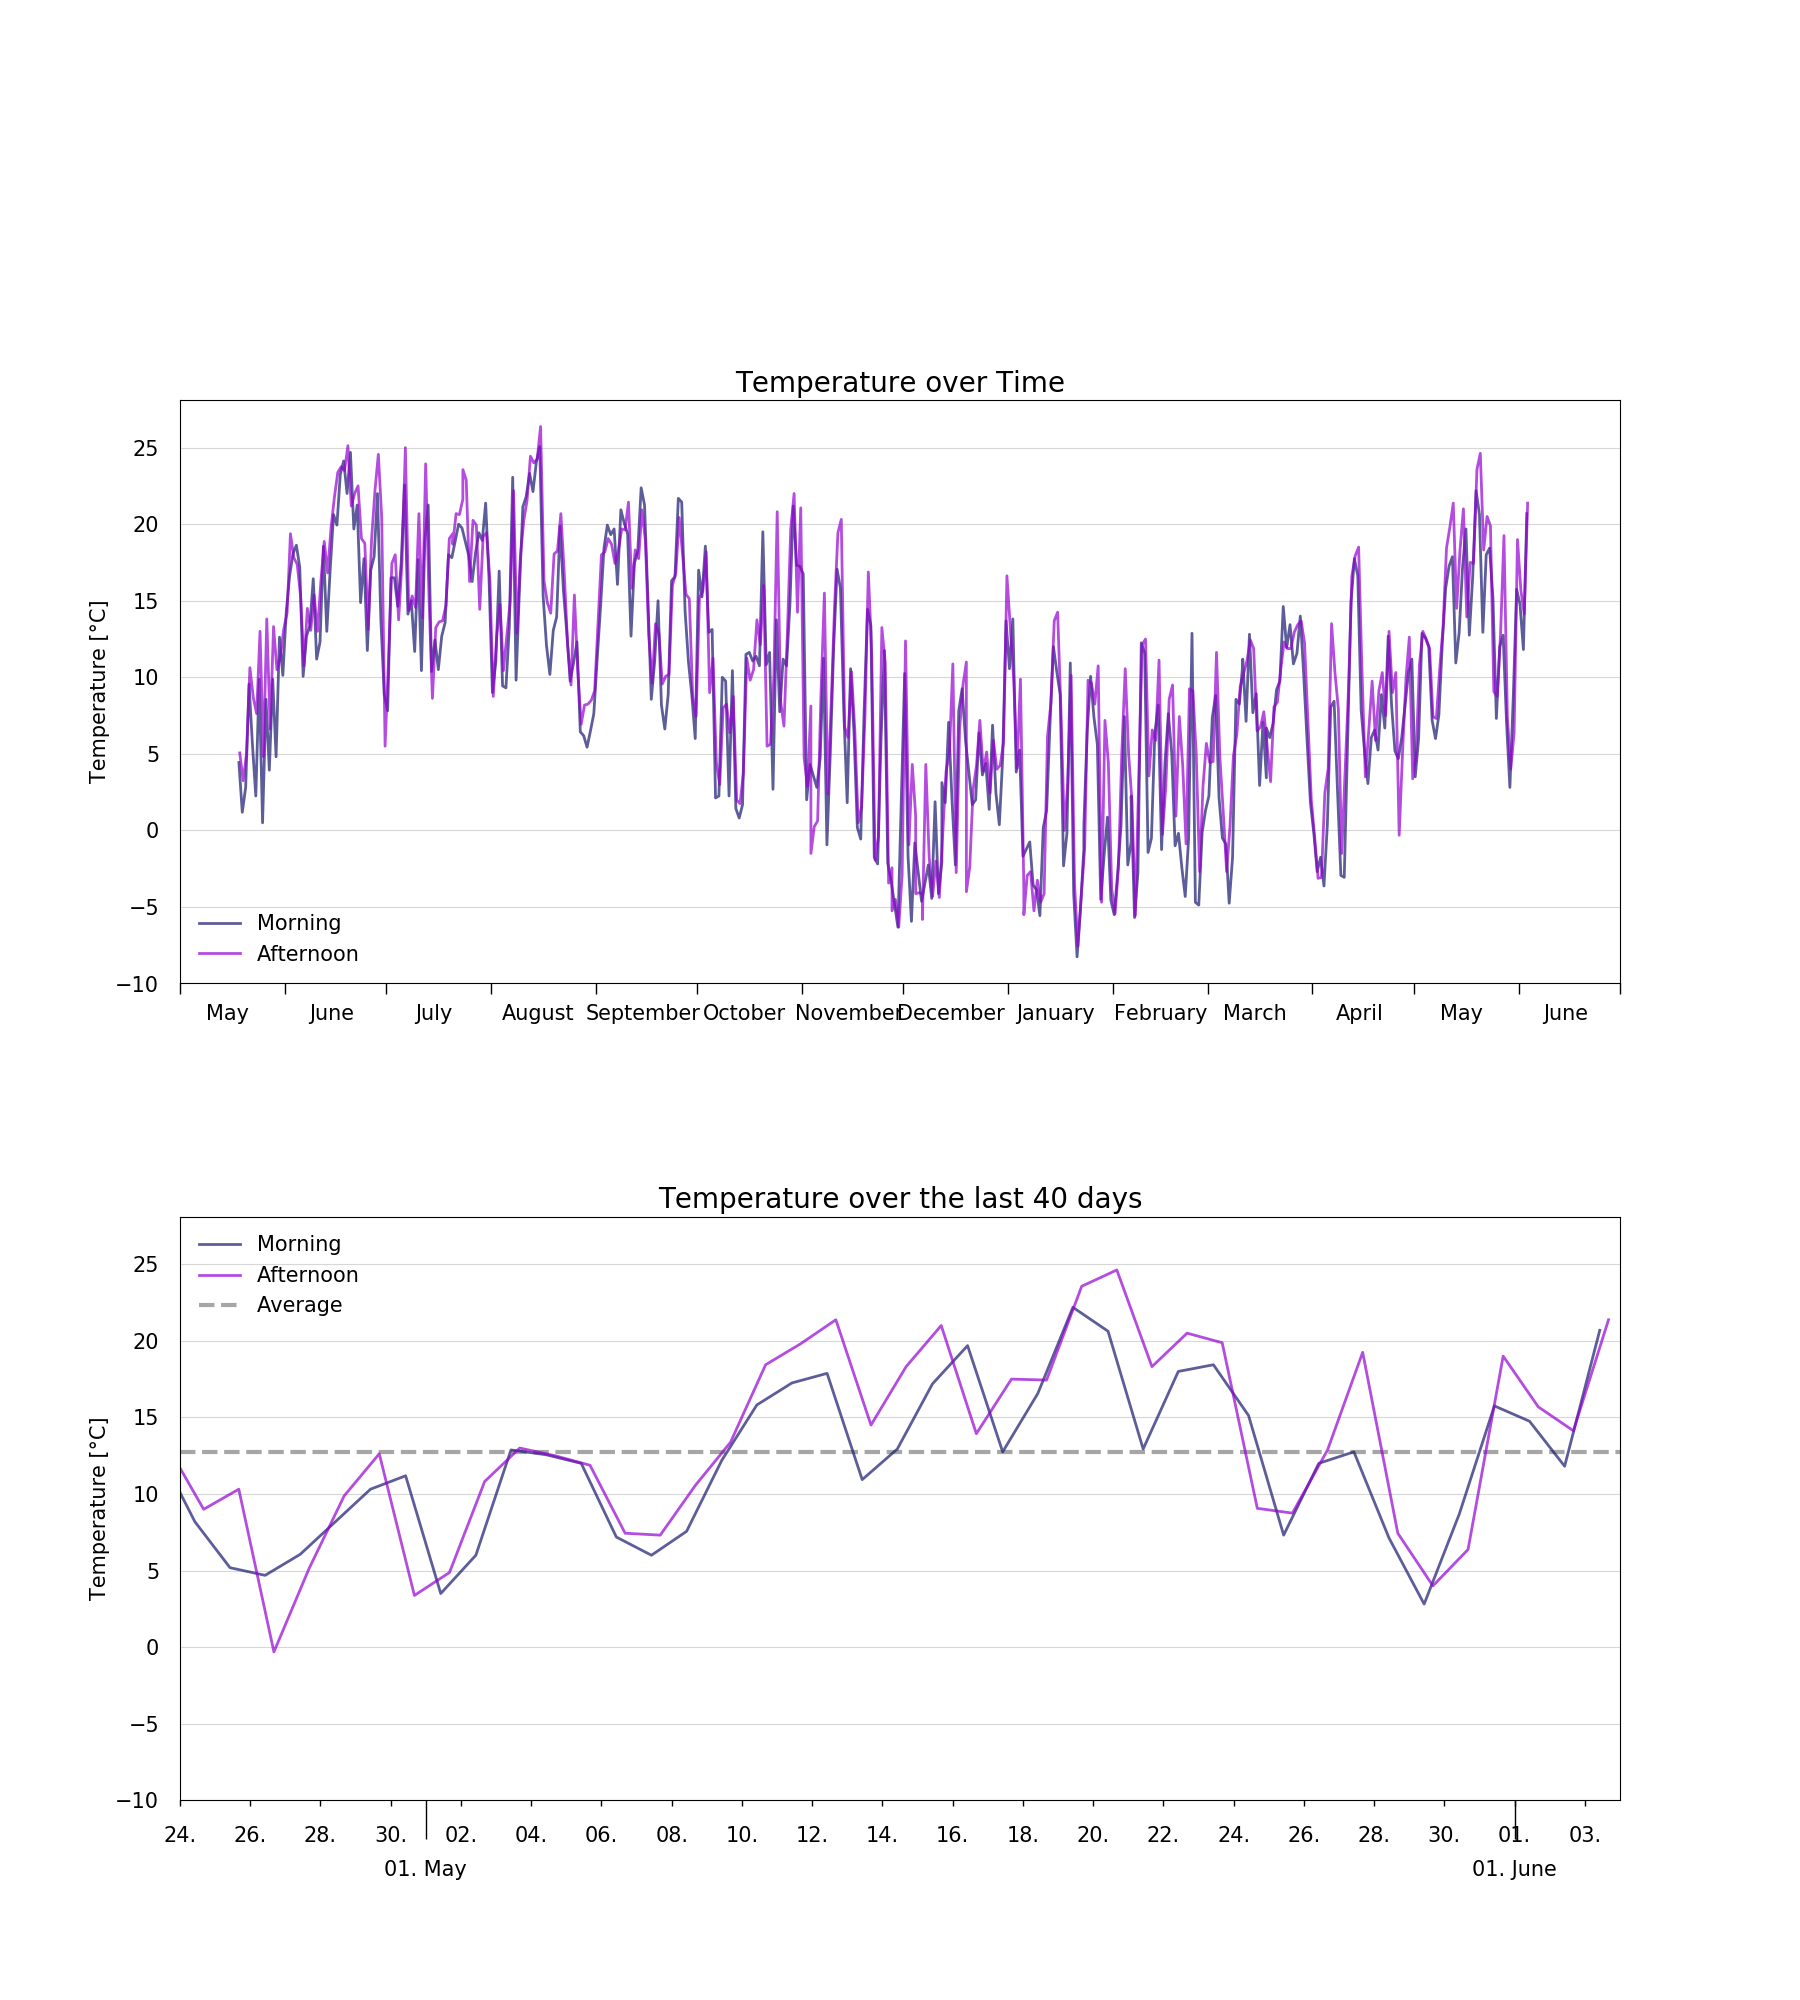
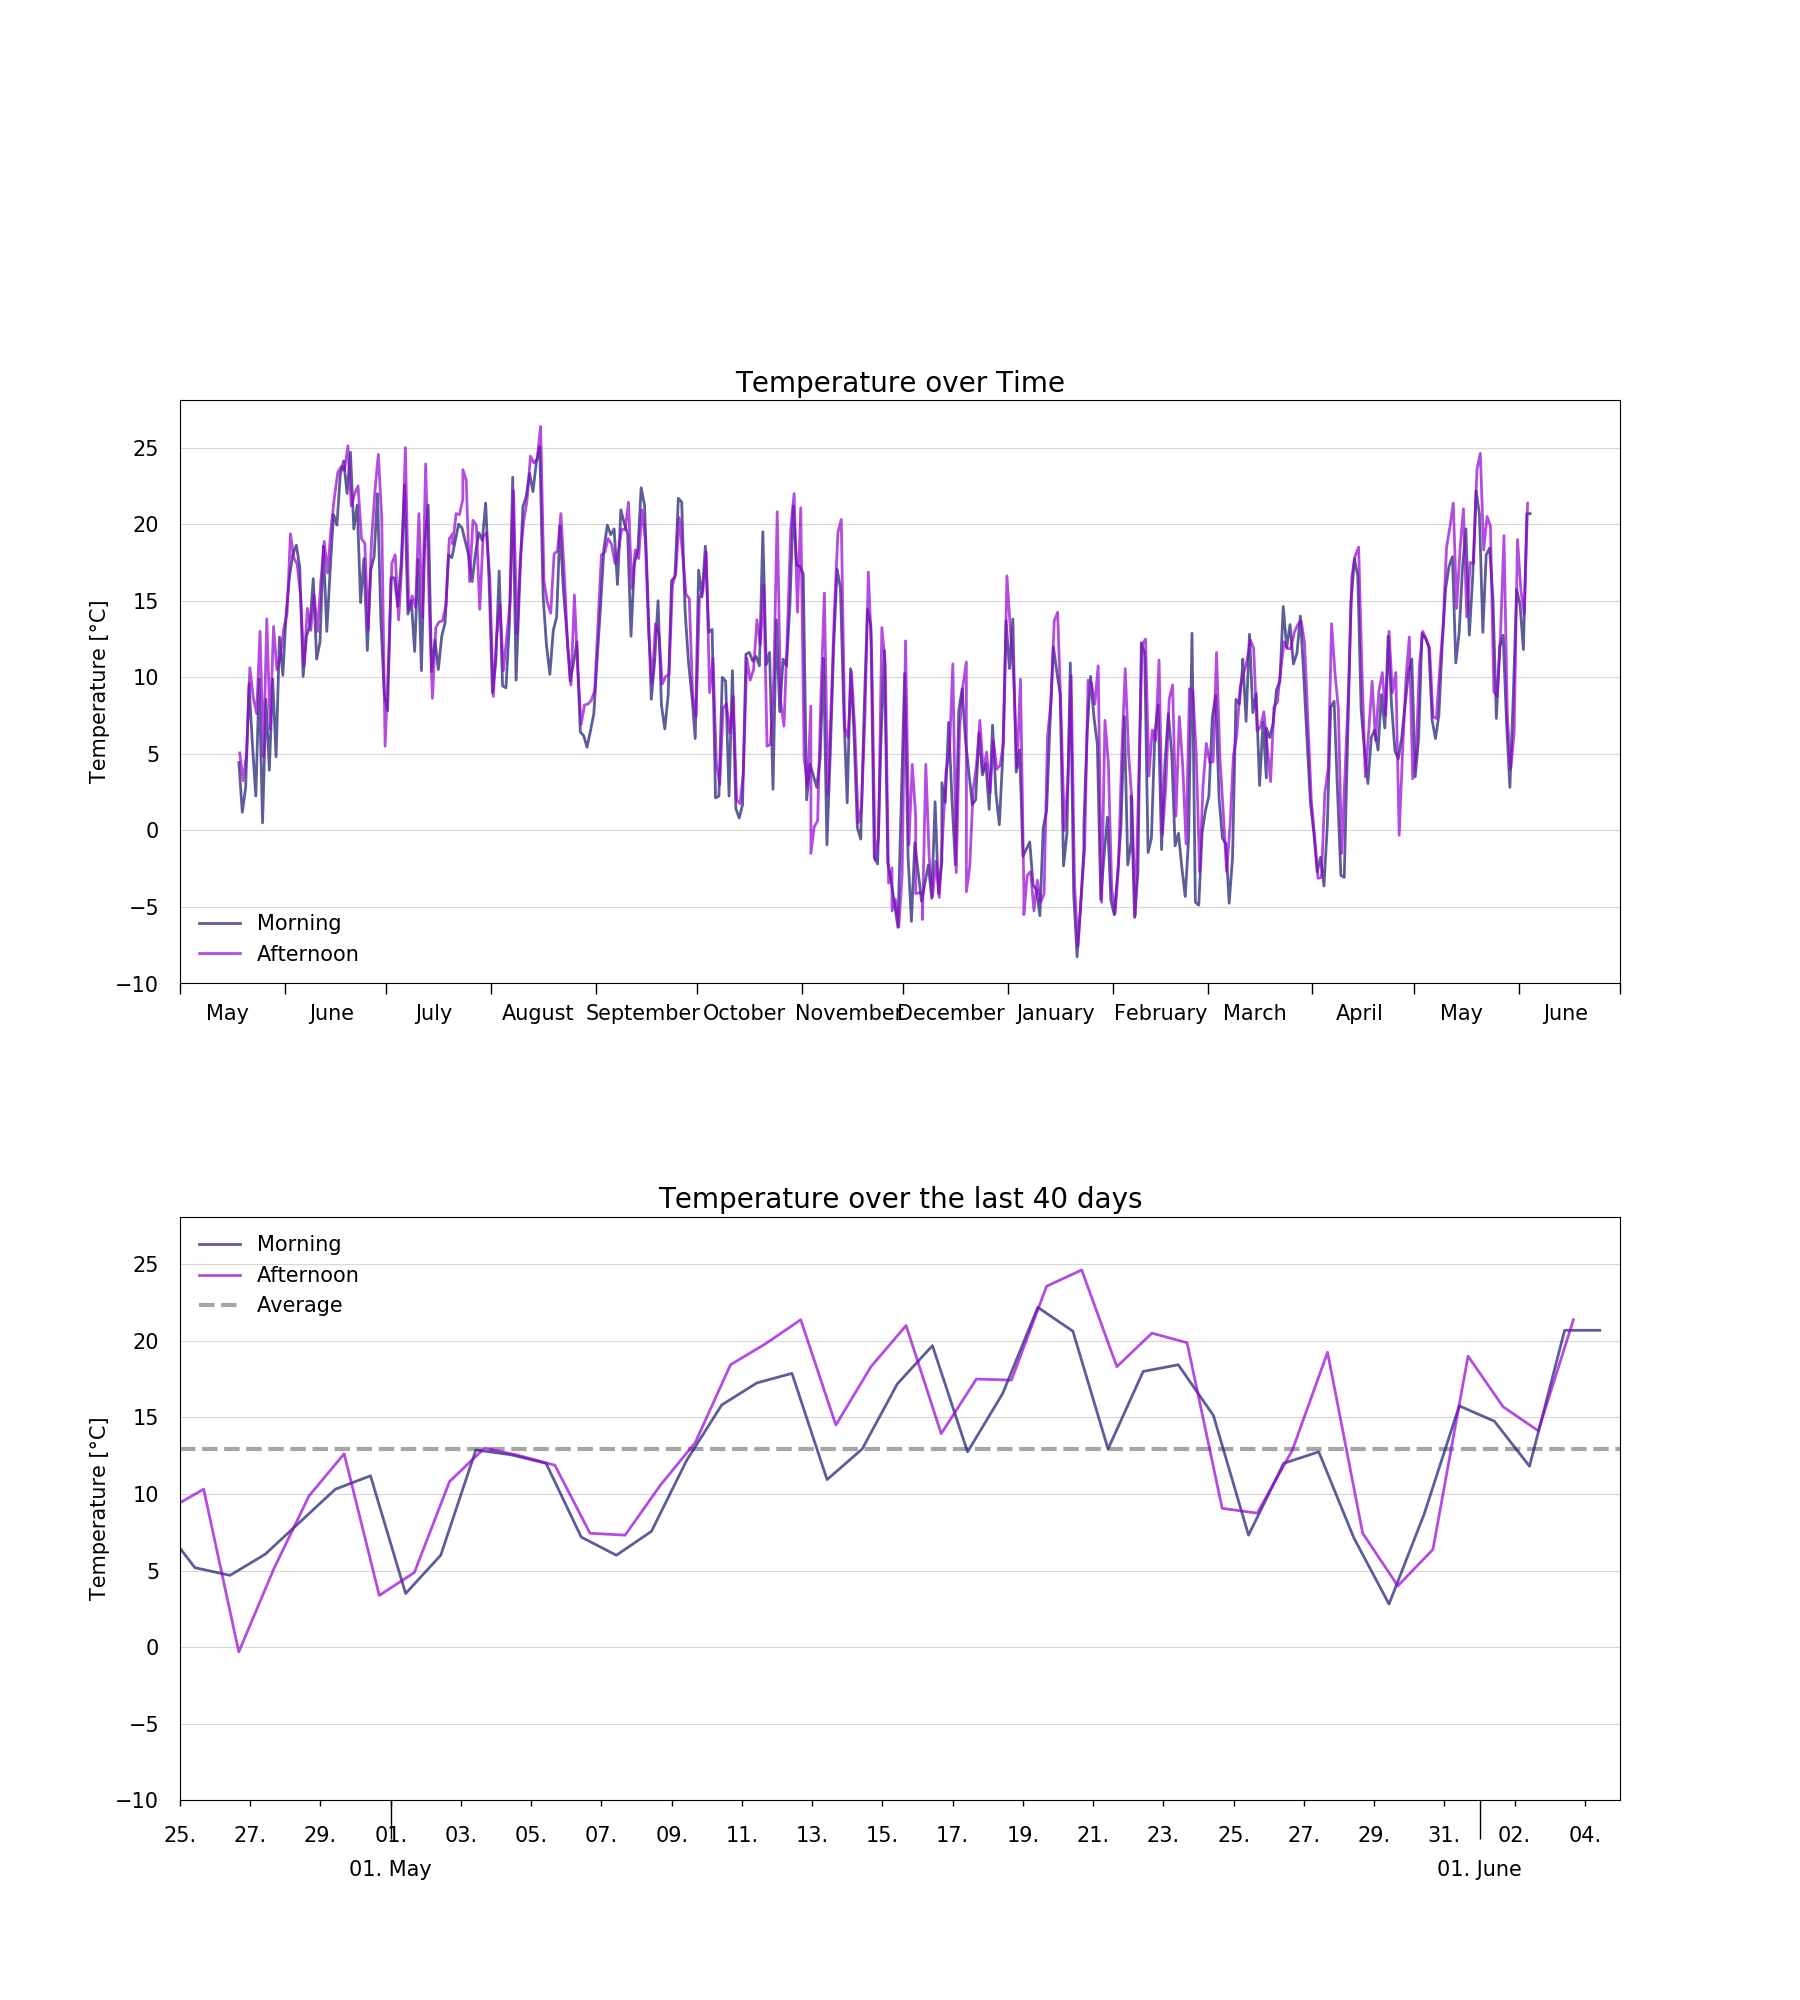
I'm a bot beep boop

diff --git a/resources/huette.md b/resources/huette.md
@@ -6,13 +6,13 @@ image: '/assets/img/'
 description: 'Live image from the Austrian alps'
 twitter_text: ' '
 ---
-## Latest image from 03 June 2022 at 16:10
+## Latest image from 04 June 2022 at 10:10
 <div class="huette">
   <div class="huette-image">
     <img src="{{ "/assets/img/huette.jpg" | prepend: site.baseurl }}">
   </div>
   <div class="huette-text">
-        <h2>Current Temperature: 21.375°C</h2>
+        <h2>Current Temperature: 20.687°C</h2>
         <p>A solar powered raspberry pi left alone in the wild is sending daily images and temperature data to this website. It should give you an impression about the current weather in the "Brixental".</p>
 
   </div>

diff --git a/rpi-script/huette.md b/rpi-script/huette.md
@@ -6,13 +6,13 @@ image: '/assets/img/'
 description: 'Live image from the Austrian alps'
 twitter_text: ' '
 ---
-## Latest image from 03 June 2022 at 16:10
+## Latest image from 04 June 2022 at 10:10
 <div class="huette">
   <div class="huette-image">
     <img src="{{ "/assets/img/huette.jpg" | prepend: site.baseurl }}">
   </div>
   <div class="huette-text">
-        <h2>Current Temperature: 21.375°C</h2>
+        <h2>Current Temperature: 20.687°C</h2>
         <p>A solar powered raspberry pi left alone in the wild is sending daily images and temperature data to this website. It should give you an impression about the current weather in the "Brixental".</p>
 
   </div>
